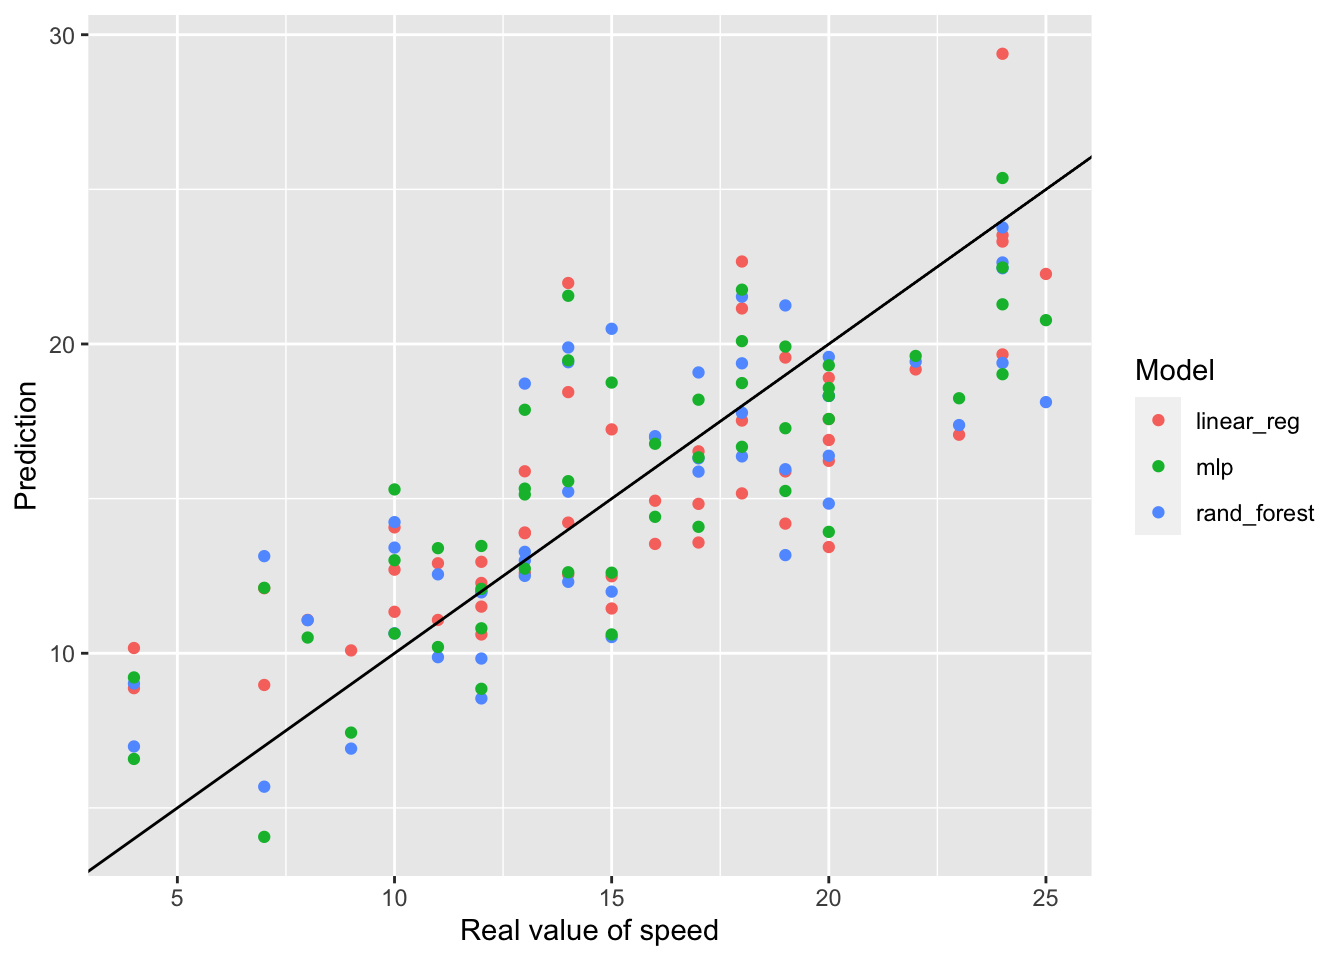
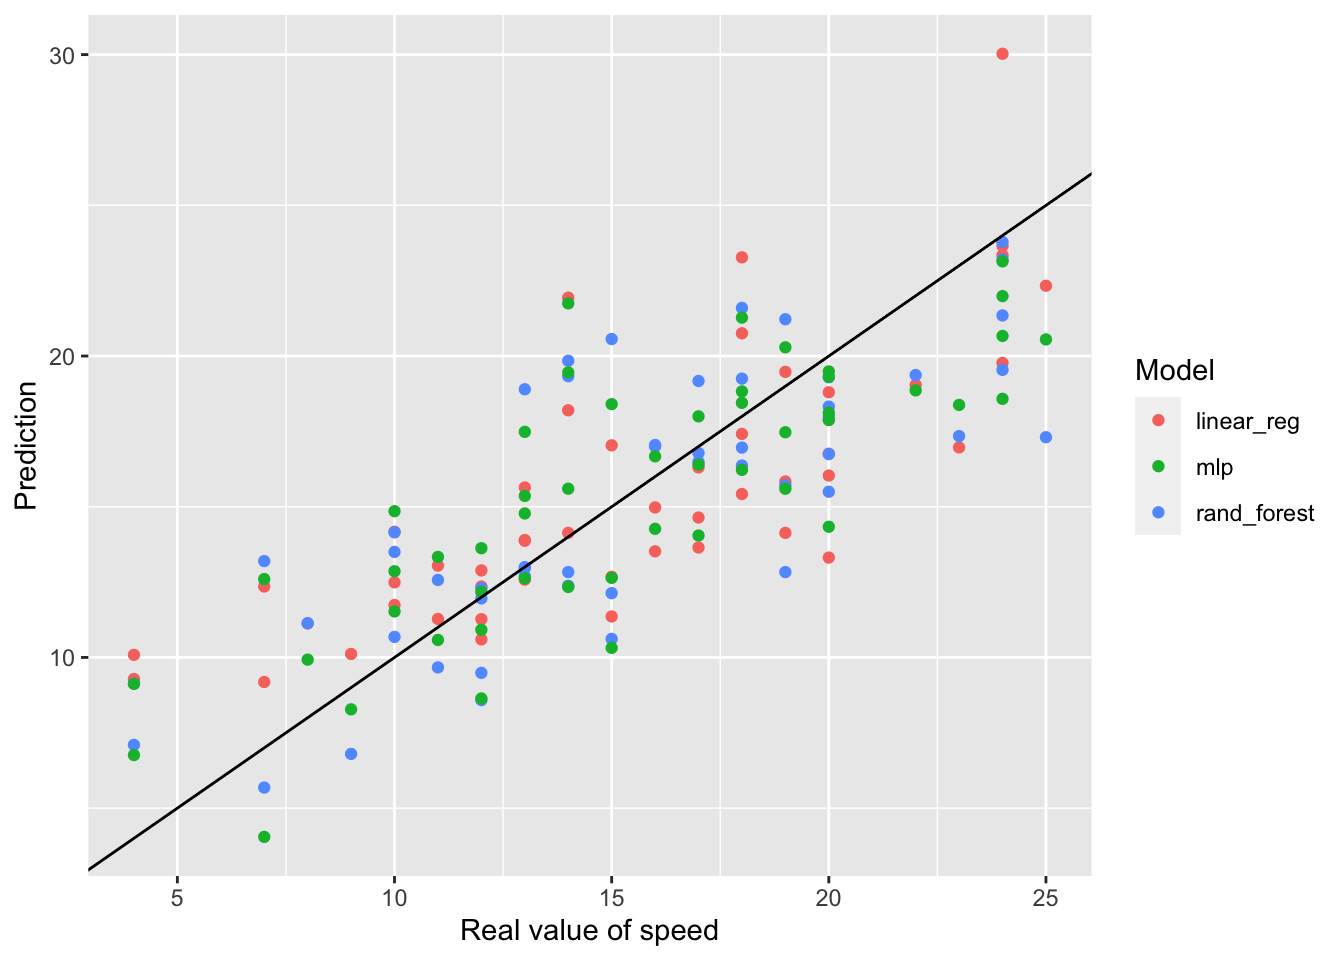
some changes

diff --git a/_site/posts/2023-08-08-cars-dataset-and-tidymodels/2023-08-08-cars-dataset-and-tidymodels.html b/_site/posts/2023-08-08-cars-dataset-and-tidymodels/2023-08-08-cars-dataset-and-tidymodels.html
@@ -216,7 +216,7 @@ pre > code.sourceCode > span > a:first-child::before { text-decoration: underlin
 ✖ dplyr::filter()  masks stats::filter()
 ✖ dplyr::lag()     masks stats::lag()
 ✖ recipes::step()  masks stats::step()
-• Learn how to get started at https://www.tidymodels.org/start/</code></pre>
+• Search for functions across packages at https://www.tidymodels.org/find/</code></pre>
 </div>
 <div class="sourceCode cell-code" id="cb5"><pre class="sourceCode r code-with-copy"><code class="sourceCode r"><span id="cb5-1"><a href="#cb5-1" aria-hidden="true" tabindex="-1"></a><span class="fu">library</span>(<span class="st">'knitr'</span>)</span></code><button title="Copy to Clipboard" class="code-copy-button"><i class="bi"></i></button></pre></div>
 </div>
@@ -225,7 +225,7 @@ pre > code.sourceCode > span > a:first-child::before { text-decoration: underlin
 <h2 class="anchored" data-anchor-id="do-vfold-cross-validation-on-the-cars-dataset-using-a-linear-model-a-random-forest-model-and-a-neural-net">Do vfold cross-validation on the cars dataset using a linear model, a random forest model and a neural net</h2>
 <div class="cell">
 <div class="sourceCode cell-code" id="cb6"><pre class="sourceCode r code-with-copy"><code class="sourceCode r"><span id="cb6-1"><a href="#cb6-1" aria-hidden="true" tabindex="-1"></a><span class="co"># Create data for resampling:</span></span>
-<span id="cb6-2"><a href="#cb6-2" aria-hidden="true" tabindex="-1"></a>cars_folds <span class="ot">&lt;-</span> <span class="fu">vfold_cv</span>(cars, <span class="at">v =</span> <span class="dv">10</span>, <span class="at">repeats =</span> <span class="dv">10</span>)</span>
+<span id="cb6-2"><a href="#cb6-2" aria-hidden="true" tabindex="-1"></a>cars_folds <span class="ot">&lt;-</span> <span class="fu">vfold_cv</span>(cars, <span class="at">v =</span> <span class="dv">10</span>, <span class="at">repeats =</span> <span class="dv">1</span>)</span>
 <span id="cb6-3"><a href="#cb6-3" aria-hidden="true" tabindex="-1"></a></span>
 <span id="cb6-4"><a href="#cb6-4" aria-hidden="true" tabindex="-1"></a><span class="co"># Create model specifications:</span></span>
 <span id="cb6-5"><a href="#cb6-5" aria-hidden="true" tabindex="-1"></a>lm_spec <span class="ot">&lt;-</span> <span class="fu">linear_reg</span>()</span>
@@ -253,12 +253,12 @@ pre > code.sourceCode > span > a:first-child::before { text-decoration: underlin
 <pre><code># A tibble: 6 × 9
   wflow_id   .config        preproc model .metric .estimator  mean     n std_err
   &lt;chr&gt;      &lt;chr&gt;          &lt;chr&gt;   &lt;chr&gt; &lt;chr&gt;   &lt;chr&gt;      &lt;dbl&gt; &lt;int&gt;   &lt;dbl&gt;
-1 formula_lm Preprocessor1… formula line… rmse    standard   3.12    100  0.0900
-2 formula_lm Preprocessor1… formula line… rsq     standard   0.691   100  0.0269
-3 formula_rf Preprocessor1… formula rand… rmse    standard   3.15    100  0.0997
-4 formula_rf Preprocessor1… formula rand… rsq     standard   0.654   100  0.0265
-5 formula_nn Preprocessor1… formula mlp   rmse    standard   3.05    100  0.0846
-6 formula_nn Preprocessor1… formula mlp   rsq     standard   0.692   100  0.0263</code></pre>
+1 formula_lm Preprocessor1… formula line… rmse    standard   3.18     10  0.288 
+2 formula_lm Preprocessor1… formula line… rsq     standard   0.656    10  0.0885
+3 formula_rf Preprocessor1… formula rand… rmse    standard   3.14     10  0.340 
+4 formula_rf Preprocessor1… formula rand… rsq     standard   0.621    10  0.0901
+5 formula_nn Preprocessor1… formula mlp   rmse    standard   2.99     10  0.253 
+6 formula_nn Preprocessor1… formula mlp   rsq     standard   0.643    10  0.0834</code></pre>
 </div>
 <div class="sourceCode cell-code" id="cb8"><pre class="sourceCode r code-with-copy"><code class="sourceCode r"><span id="cb8-1"><a href="#cb8-1" aria-hidden="true" tabindex="-1"></a>metrics <span class="sc">|&gt;</span> <span class="fu">pivot_wider</span>(<span class="at">names_from =</span> .metric, </span>
 <span id="cb8-2"><a href="#cb8-2" aria-hidden="true" tabindex="-1"></a>                       <span class="at">values_from =</span> <span class="fu">c</span>(mean, std_err), </span>
@@ -278,24 +278,24 @@ pre > code.sourceCode > span > a:first-child::before { text-decoration: underlin
 <tbody>
 <tr class="odd">
 <td style="text-align: center;">formula_lm</td>
-<td style="text-align: center;">3.119199</td>
-<td style="text-align: center;">0.6905043</td>
-<td style="text-align: center;">0.0900192</td>
-<td style="text-align: center;">0.0268579</td>
+<td style="text-align: center;">3.180583</td>
+<td style="text-align: center;">0.6561715</td>
+<td style="text-align: center;">0.2883717</td>
+<td style="text-align: center;">0.0885333</td>
 </tr>
 <tr class="even">
 <td style="text-align: center;">formula_rf</td>
-<td style="text-align: center;">3.151297</td>
-<td style="text-align: center;">0.6538858</td>
-<td style="text-align: center;">0.0997091</td>
-<td style="text-align: center;">0.0264878</td>
+<td style="text-align: center;">3.142965</td>
+<td style="text-align: center;">0.6212505</td>
+<td style="text-align: center;">0.3399041</td>
+<td style="text-align: center;">0.0901077</td>
 </tr>
 <tr class="odd">
 <td style="text-align: center;">formula_nn</td>
-<td style="text-align: center;">3.049062</td>
-<td style="text-align: center;">0.6915509</td>
-<td style="text-align: center;">0.0845888</td>
-<td style="text-align: center;">0.0262512</td>
+<td style="text-align: center;">2.994578</td>
+<td style="text-align: center;">0.6426283</td>
+<td style="text-align: center;">0.2528375</td>
+<td style="text-align: center;">0.0833891</td>
 </tr>
 </tbody>
 </table>
@@ -315,6 +315,7 @@ pre > code.sourceCode > span > a:first-child::before { text-decoration: underlin
 <section id="open-questions" class="level2">
 <h2 class="anchored" data-anchor-id="open-questions">Open Questions</h2>
 <ul>
+<li>I don’t exactly understand how tidymodels performs cross-validation, how the metrics are calculated etc. Documentation of the tidymodels package has not been informative to me so far (probably I have to read more into it).</li>
 <li>How to collect other metrics, e.g.&nbsp;mean absolute error?</li>
 <li>How to conventiently join the predictors to the prediction tibble?</li>
 <li>How do I extract honest coefficients from the linear model?</li>

diff --git a/_site/index.html b/_site/index.html
@@ -198,7 +198,7 @@ ul.task-list li input[type="checkbox"] {
     </div>
 </div>
 <div class="list quarto-listing-default">
-<div class="quarto-post image-right" data-index="0" data-categories="R" data-listing-date-sort="1691445600000" data-listing-file-modified-sort="1691572361992" data-listing-date-modified-sort="NaN" data-listing-reading-time-sort="2">
+<div class="quarto-post image-right" data-index="0" data-categories="R" data-listing-date-sort="1691445600000" data-listing-file-modified-sort="1691574434986" data-listing-date-modified-sort="NaN" data-listing-reading-time-sort="2">
 <div class="thumbnail">
 <p><a href="./posts/2023-08-08-cars-dataset-and-tidymodels/2023-08-08-cars-dataset-and-tidymodels.html"> <p class="card-img-top"><img src="posts/2023-08-08-cars-dataset-and-tidymodels/2023-08-08-cars-dataset-and-tidymodels_files/figure-html/unnamed-chunk-2-1.png"  class="thumbnail-image card-img"/></p> </a></p>
 </div>
